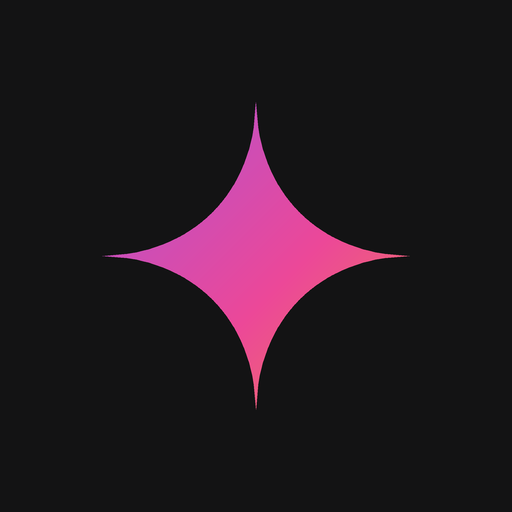
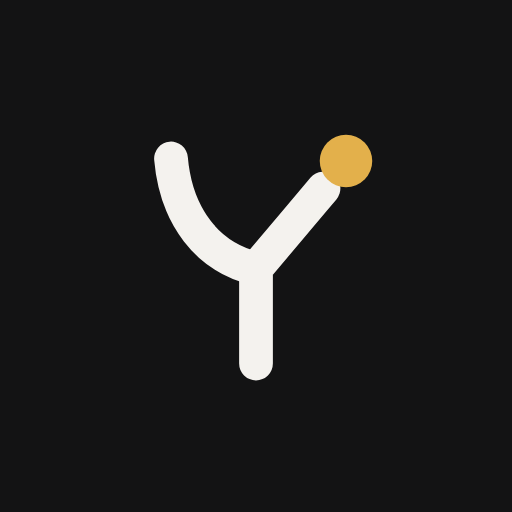
شعار YAR جديد + ألوان ذهبي وگرافيتي

Changed region(s): [[0.2188, 0.2188, 0.7812, 0.7812]]

diff --git a/index.html b/index.html
@@ -19,22 +19,22 @@
    PICTURE: نجمة يار المتدرجة + صندوق الكتابة
    COLOUR: أسود دافئ، رمادي ناعم، لمسة متدرجة بنفسجي-وردي لهوية YAR
    TYPE: IBM Plex Sans Arabic، LAYOUT: قائمة جانبية + عمود محادثة ٧٦٠ */
-:root{--bg:#131314;--side:#1b1b1d;--panel:#1e1f20;--panel2:#282a2c;--line:#2f3133;--text:#e8e8ea;--muted:#9a9ba0;--dim:#6b6c72;--a1:#8b5cf6;--a2:#ec4899;--a3:#f5a524;--ok:#22c55e}
+:root{--bg:#131314;--side:#1b1b1d;--panel:#1e1f20;--panel2:#282a2c;--line:#2f3133;--text:#e8e8ea;--muted:#9a9ba0;--dim:#6b6c72;--a1:#E3B04B;--a2:#C98A3A;--a3:#F2D27A;--ok:#22c55e}
 *{box-sizing:border-box;margin:0;padding:0;min-width:0}
 html,body{height:100%}
 body{font-family:'IBM Plex Sans Arabic',system-ui,sans-serif;background:var(--bg);color:var(--text);display:flex;flex-direction:column;font-size:16px;-webkit-font-smoothing:antialiased;overflow:hidden}
 button{font-family:inherit;cursor:pointer;color:inherit}
 .grad{background:linear-gradient(120deg,var(--a1),var(--a2) 55%,var(--a3));-webkit-background-clip:text;background-clip:text;color:transparent}
-.spark{width:28px;height:28px;flex:none}
+.spark{width:28px;height:28px;flex:none;color:#F4F2EE}
 /* ===== الدخول ===== */
-#auth{flex:1;display:flex;align-items:center;justify-content:center;padding:24px;background:radial-gradient(600px 400px at 50% 20%,rgba(139,92,246,.18),transparent 70%)}
+#auth{flex:1;display:flex;align-items:center;justify-content:center;padding:24px;background:radial-gradient(600px 400px at 50% 15%,rgba(227,176,75,.10),transparent 70%)}
 .card{width:100%;max-width:380px;text-align:center}
 .card .spark{width:56px;height:56px;margin:0 auto 14px}
 .card h1{font-size:34px;font-weight:700;letter-spacing:-.5px}
 .card p.sub{color:var(--muted);margin:6px 0 26px;font-size:15px}
 .card input{width:100%;background:var(--panel);border:1px solid var(--line);color:var(--text);border-radius:14px;padding:14px 16px;font-family:inherit;font-size:16px;margin-bottom:10px;direction:ltr;text-align:right;outline:none}
 .card input:focus{border-color:var(--a1)}
-.primary{width:100%;border:0;border-radius:14px;padding:13px;font-size:16px;font-weight:600;color:#fff;background:linear-gradient(120deg,var(--a1),var(--a2))}
+.primary{width:100%;border:0;border-radius:14px;padding:13px;font-size:16px;font-weight:600;color:#1b1406;background:var(--a1)}
 .primary:disabled{opacity:.5}
 .gbtn{width:100%;display:flex;align-items:center;justify-content:center;gap:10px;background:#fff;color:#1f1f1f;border:0;border-radius:14px;padding:13px;font-size:16px;font-weight:600}
 .or{display:flex;align-items:center;gap:10px;color:var(--dim);font-size:13px;margin:16px 0}.or::before,.or::after{content:"";flex:1;height:1px;background:var(--line)}
@@ -56,7 +56,7 @@ aside{width:272px;background:var(--side);display:flex;flex-direction:column;min-
 .me{border-top:1px solid var(--line);padding:10px;position:relative}
 .me-btn{width:100%;display:flex;align-items:center;gap:10px;background:transparent;border:0;padding:8px;border-radius:12px;text-align:right}
 .me-btn:hover{background:var(--panel2)}
-.avatar{width:34px;height:34px;border-radius:50%;background:linear-gradient(135deg,var(--a1),var(--a2));display:grid;place-items:center;font-weight:700;color:#fff;flex:none}
+.avatar{width:34px;height:34px;border-radius:50%;background:var(--a1);display:grid;place-items:center;font-weight:700;color:#1b1406;flex:none}
 .me-name{font-size:14px;font-weight:600;white-space:nowrap;overflow:hidden;text-overflow:ellipsis}
 .me-plan{font-size:12px;color:var(--muted)}
 .menu{position:absolute;bottom:64px;inset-inline:10px;background:var(--panel2);border:1px solid var(--line);border-radius:14px;padding:6px;display:none;box-shadow:0 12px 40px rgba(0,0,0,.5);z-index:20}
@@ -67,7 +67,7 @@ main{flex:1;display:flex;flex-direction:column;min-height:0;position:relative}
 .topbar{display:flex;align-items:center;justify-content:space-between;padding:10px 14px;min-height:56px}
 .topbar .title{font-size:17px;font-weight:600;display:flex;gap:8px;align-items:center}
 .pill{font-size:12px;padding:3px 10px;border-radius:20px;background:var(--panel2);color:var(--muted);font-weight:500}
-.pill.pro{background:rgba(139,92,246,.18);color:#c4b5fd}.pill.business{background:rgba(245,165,36,.16);color:#fcd38d}
+.pill.pro{background:rgba(227,176,75,.14);color:#F2D27A}.pill.business{background:rgba(245,165,36,.16);color:#fcd38d}
 .ibtn{background:transparent;border:0;width:40px;height:40px;border-radius:12px;display:grid;place-items:center;font-size:19px;color:var(--muted)}
 .ibtn:hover{background:var(--panel2);color:var(--text)}
 #menuBtn{display:none}
@@ -97,19 +97,19 @@ main.empty .topbar{position:absolute;top:0;inset-inline:0}
 .body table{border-collapse:collapse;margin:10px 0;display:block;overflow-x:auto;font-size:14.5px}
 .body th,.body td{border:1px solid var(--line);padding:7px 11px;text-align:right}.body th{background:var(--panel)}
 .body blockquote{border-inline-start:3px solid var(--a1);padding-inline-start:12px;color:var(--muted);margin:8px 0}
-.body a{color:#c4b5fd}
+.body a{color:#F2D27A}
 .tools{margin-top:8px;display:flex;gap:2px}
 .tools button{background:transparent;border:0;color:var(--dim);border-radius:8px;font-size:13px;padding:5px 8px}
 .tools button:hover{background:var(--panel2);color:var(--text)}
 .thinking{display:flex;align-items:center;gap:10px;color:var(--muted);font-size:15px}
-.thinking .spark{animation:spin 2.4s linear infinite}
+.thinking .spark{animation:pulse 1.4s ease-in-out infinite}
 .shimmer{background:linear-gradient(90deg,var(--dim) 0%,var(--text) 50%,var(--dim) 100%);background-size:200% 100%;-webkit-background-clip:text;background-clip:text;color:transparent;animation:sh 1.6s linear infinite}
-@keyframes spin{to{transform:rotate(360deg)}}@keyframes sh{from{background-position:200% 0}to{background-position:-200% 0}}
+@keyframes spin{to{transform:rotate(360deg)}}@keyframes pulse{50%{opacity:.35;transform:scale(.9)}}@keyframes sh{from{background-position:200% 0}to{background-position:-200% 0}}
 .err{color:#fca5a5}
 .att{display:flex;align-items:center;gap:6px;background:var(--panel2);border-radius:12px;padding:5px 10px;font-size:12.5px;color:var(--muted);max-width:200px}
 .att span{white-space:nowrap;overflow:hidden;text-overflow:ellipsis}.att button{background:none;border:0;color:var(--dim);font-size:14px}
 .body img{max-width:100%;border-radius:16px;margin:8px 0;display:block;background:var(--panel2);min-height:120px}
-.catchip.on{background:linear-gradient(120deg,rgba(139,92,246,.25),rgba(236,72,153,.25));border-color:var(--a2);color:var(--text)}
+.catchip.on{background:linear-gradient(120deg,rgba(227,176,75,.22),rgba(201,138,58,.22));border-color:var(--a2);color:var(--text)}
 /* صندوق الكتابة */
 form#composer{padding:0 16px calc(12px + env(safe-area-inset-bottom))}
 .box{max-width:760px;margin:0 auto;background:var(--panel);border:1px solid var(--line);border-radius:26px;padding:12px 14px 10px;transition:border-color .2s;box-shadow:0 8px 30px rgba(0,0,0,.25)}
@@ -152,7 +152,7 @@ footer.credit{text-align:center;font-size:11.5px;color:var(--dim);padding:2px 0 
 .icon-btn{background:var(--panel2);border:1px solid var(--line);border-radius:12px;padding:8px 12px;font-size:14px}
 .plans{display:grid;grid-template-columns:repeat(auto-fit,minmax(170px,1fr));gap:10px;margin-bottom:14px}
 .plan{border:1px solid var(--line);border-radius:18px;padding:14px;background:var(--bg);cursor:pointer}
-.plan.sel{border-color:var(--a1);box-shadow:0 0 0 2px rgba(139,92,246,.3)}
+.plan.sel{border-color:var(--a1);box-shadow:0 0 0 2px rgba(227,176,75,.3)}
 .plan.cur{opacity:.8}
 .plan .p{font-size:22px;font-weight:700}.plan .p small{font-size:12px;color:var(--muted);font-weight:500}
 .plan ul{list-style:none;font-size:13px;color:var(--muted);margin-top:6px;line-height:1.9}
@@ -170,7 +170,7 @@ footer.credit{text-align:center;font-size:11.5px;color:var(--dim);padding:2px 0 
 .row .acts button{border:1px solid var(--line);background:var(--panel2);border-radius:10px;padding:5px 10px;font-size:12.5px}
 .row .acts button.ok{background:#166534;border-color:#166534}.row .acts button.no{background:#7f1d1d;border-color:#7f1d1d}
 .badge{font-size:11.5px;padding:2px 9px;border-radius:20px;background:var(--panel2);color:var(--muted)}
-.badge.pro{background:rgba(139,92,246,.2);color:#c4b5fd}.badge.business{background:rgba(245,165,36,.18);color:#fcd38d}
+.badge.pro{background:rgba(227,176,75,.16);color:#F2D27A}.badge.business{background:rgba(245,165,36,.18);color:#fcd38d}
 .stats{display:grid;grid-template-columns:repeat(3,1fr);gap:8px;margin-bottom:10px}
 .stats div{background:var(--bg);border:1px solid var(--line);border-radius:14px;padding:10px;text-align:center}
 .stats b{display:block;font-size:22px}.stats span{font-size:12px;color:var(--muted)}
@@ -195,8 +195,8 @@ footer.credit{text-align:center;font-size:11.5px;color:var(--dim);padding:2px 0 
 </head>
 <body>
 <svg width="0" height="0" style="position:absolute"><defs>
-  <linearGradient id="yg" x1="0" y1="0" x2="1" y2="1"><stop offset="0" stop-color="#8b5cf6"/><stop offset=".55" stop-color="#ec4899"/><stop offset="1" stop-color="#f5a524"/></linearGradient>
-  <symbol id="spark" viewBox="0 0 24 24"><path fill="url(#yg)" d="M12 1.5c.6 5.6 4.9 9.9 10.5 10.5-5.6.6-9.9 4.9-10.5 10.5C11.4 16.9 7.1 12.6 1.5 12 7.1 11.4 11.4 7.1 12 1.5z"/></symbol>
+  <linearGradient id="yg" x1="0" y1="0" x2="1" y2="1"><stop offset="0" stop-color="#F2D27A"/><stop offset="1" stop-color="#C98A3A"/></linearGradient>
+  <symbol id="spark" viewBox="0 0 24 24"><g fill="none" stroke="currentColor" stroke-width="2.7" stroke-linecap="round" stroke-linejoin="round"><path d="M5.2 4.2c.4 4.6 2.9 7.9 6.8 8.8"/><path d="M17.4 6.6 12 13v7.6"/></g><circle cx="19.2" cy="4.4" r="2.1" fill="#E3B04B"/></symbol>
 </defs></svg>
 
 <section id="auth">
@@ -240,7 +240,7 @@ footer.credit{text-align:center;font-size:11.5px;color:var(--dim);padding:2px 0 
     <div class="topbar">
       <div style="display:flex;align-items:center;gap:6px">
         <button class="ibtn" id="menuBtn" aria-label="القائمة">☰</button>
-        <div class="title">YAR AI <span class="pill" id="planPill">مجاني</span></div>
+        <div class="title"><svg class="spark" style="width:22px;height:22px"><use href="#spark"/></svg>YAR AI <span class="pill" id="planPill">مجاني</span></div>
       </div>
       <button class="ibtn" id="newChat2" aria-label="محادثة جديدة">✎</button>
     </div>

diff --git a/terms.html b/terms.html
@@ -1,6 +1,6 @@
 <!DOCTYPE html><html lang="ar" dir="rtl"><head><meta charset="UTF-8"><meta name="viewport" content="width=device-width,initial-scale=1"><title>شروط الاستخدام — YAR AI</title>
 <link href="https://fonts.googleapis.com/css2?family=IBM+Plex+Sans+Arabic:wght@400;600&display=swap" rel="stylesheet">
-<style>body{margin:0;background:#131314;color:#e8e8ea;font:16px/1.9 'IBM Plex Sans Arabic',sans-serif}main{max-width:760px;margin:0 auto;padding:40px 20px}h1{font-size:30px;margin:0 0 4px}h2{font-size:19px;margin:26px 0 6px;color:#c4b5fd}p,li{color:#c9c9cf}a{color:#c4b5fd}.d{color:#8a8b90;font-size:14px}footer{text-align:center;color:#6b6c72;font-size:13px;padding:30px}</style></head><body><main>
+<style>body{margin:0;background:#131314;color:#e8e8ea;font:16px/1.9 'IBM Plex Sans Arabic',sans-serif}main{max-width:760px;margin:0 auto;padding:40px 20px}h1{font-size:30px;margin:0 0 4px}h2{font-size:19px;margin:26px 0 6px;color:#F2D27A}p,li{color:#c9c9cf}a{color:#F2D27A}.d{color:#8a8b90;font-size:14px}footer{text-align:center;color:#6b6c72;font-size:13px;padding:30px}</style></head><body><main>
 <h1>شروط الاستخدام</h1><p class="d">آخر تحديث: ٢٠ تشرين الثاني ٢٠٢٦</p>
 <h2>الخدمة</h2><p>YAR AI مساعد ذكاء اصطناعي من YAR Studio. الأجوبة تتولد آلياً وممكن تحتوي أخطاء، فتأكد من المعلومات المهمة قبل ما تعتمد عليها.</p>
 <h2>مو بديل عن مختص</h2><p>المعلومات الطبية والقانونية والمالية اللي ينطيها يار عامة، ومو بديل عن طبيب أو محامي أو مستشار مختص.</p>

diff --git a/privacy.html b/privacy.html
@@ -1,6 +1,6 @@
 <!DOCTYPE html><html lang="ar" dir="rtl"><head><meta charset="UTF-8"><meta name="viewport" content="width=device-width,initial-scale=1"><title>سياسة الخصوصية — YAR AI</title>
 <link href="https://fonts.googleapis.com/css2?family=IBM+Plex+Sans+Arabic:wght@400;600&display=swap" rel="stylesheet">
-<style>body{margin:0;background:#131314;color:#e8e8ea;font:16px/1.9 'IBM Plex Sans Arabic',sans-serif}main{max-width:760px;margin:0 auto;padding:40px 20px}h1{font-size:30px;margin:0 0 4px}h2{font-size:19px;margin:26px 0 6px;color:#c4b5fd}p,li{color:#c9c9cf}a{color:#c4b5fd}.d{color:#8a8b90;font-size:14px}footer{text-align:center;color:#6b6c72;font-size:13px;padding:30px}</style></head><body><main>
+<style>body{margin:0;background:#131314;color:#e8e8ea;font:16px/1.9 'IBM Plex Sans Arabic',sans-serif}main{max-width:760px;margin:0 auto;padding:40px 20px}h1{font-size:30px;margin:0 0 4px}h2{font-size:19px;margin:26px 0 6px;color:#F2D27A}p,li{color:#c9c9cf}a{color:#F2D27A}.d{color:#8a8b90;font-size:14px}footer{text-align:center;color:#6b6c72;font-size:13px;padding:30px}</style></head><body><main>
 <h1>سياسة الخصوصية</h1><p class="d">آخر تحديث: ٢٠ تشرين الثاني ٢٠٢٦</p>
 <p>YAR AI ("يار") خدمة ذكاء اصطناعي تقدمها YAR Studio في العراق. هذي الصفحة توضح شنو المعلومات اللي نجمعها وشلون نستخدمها.</p>
 <h2>المعلومات اللي نجمعها</h2><ul>
